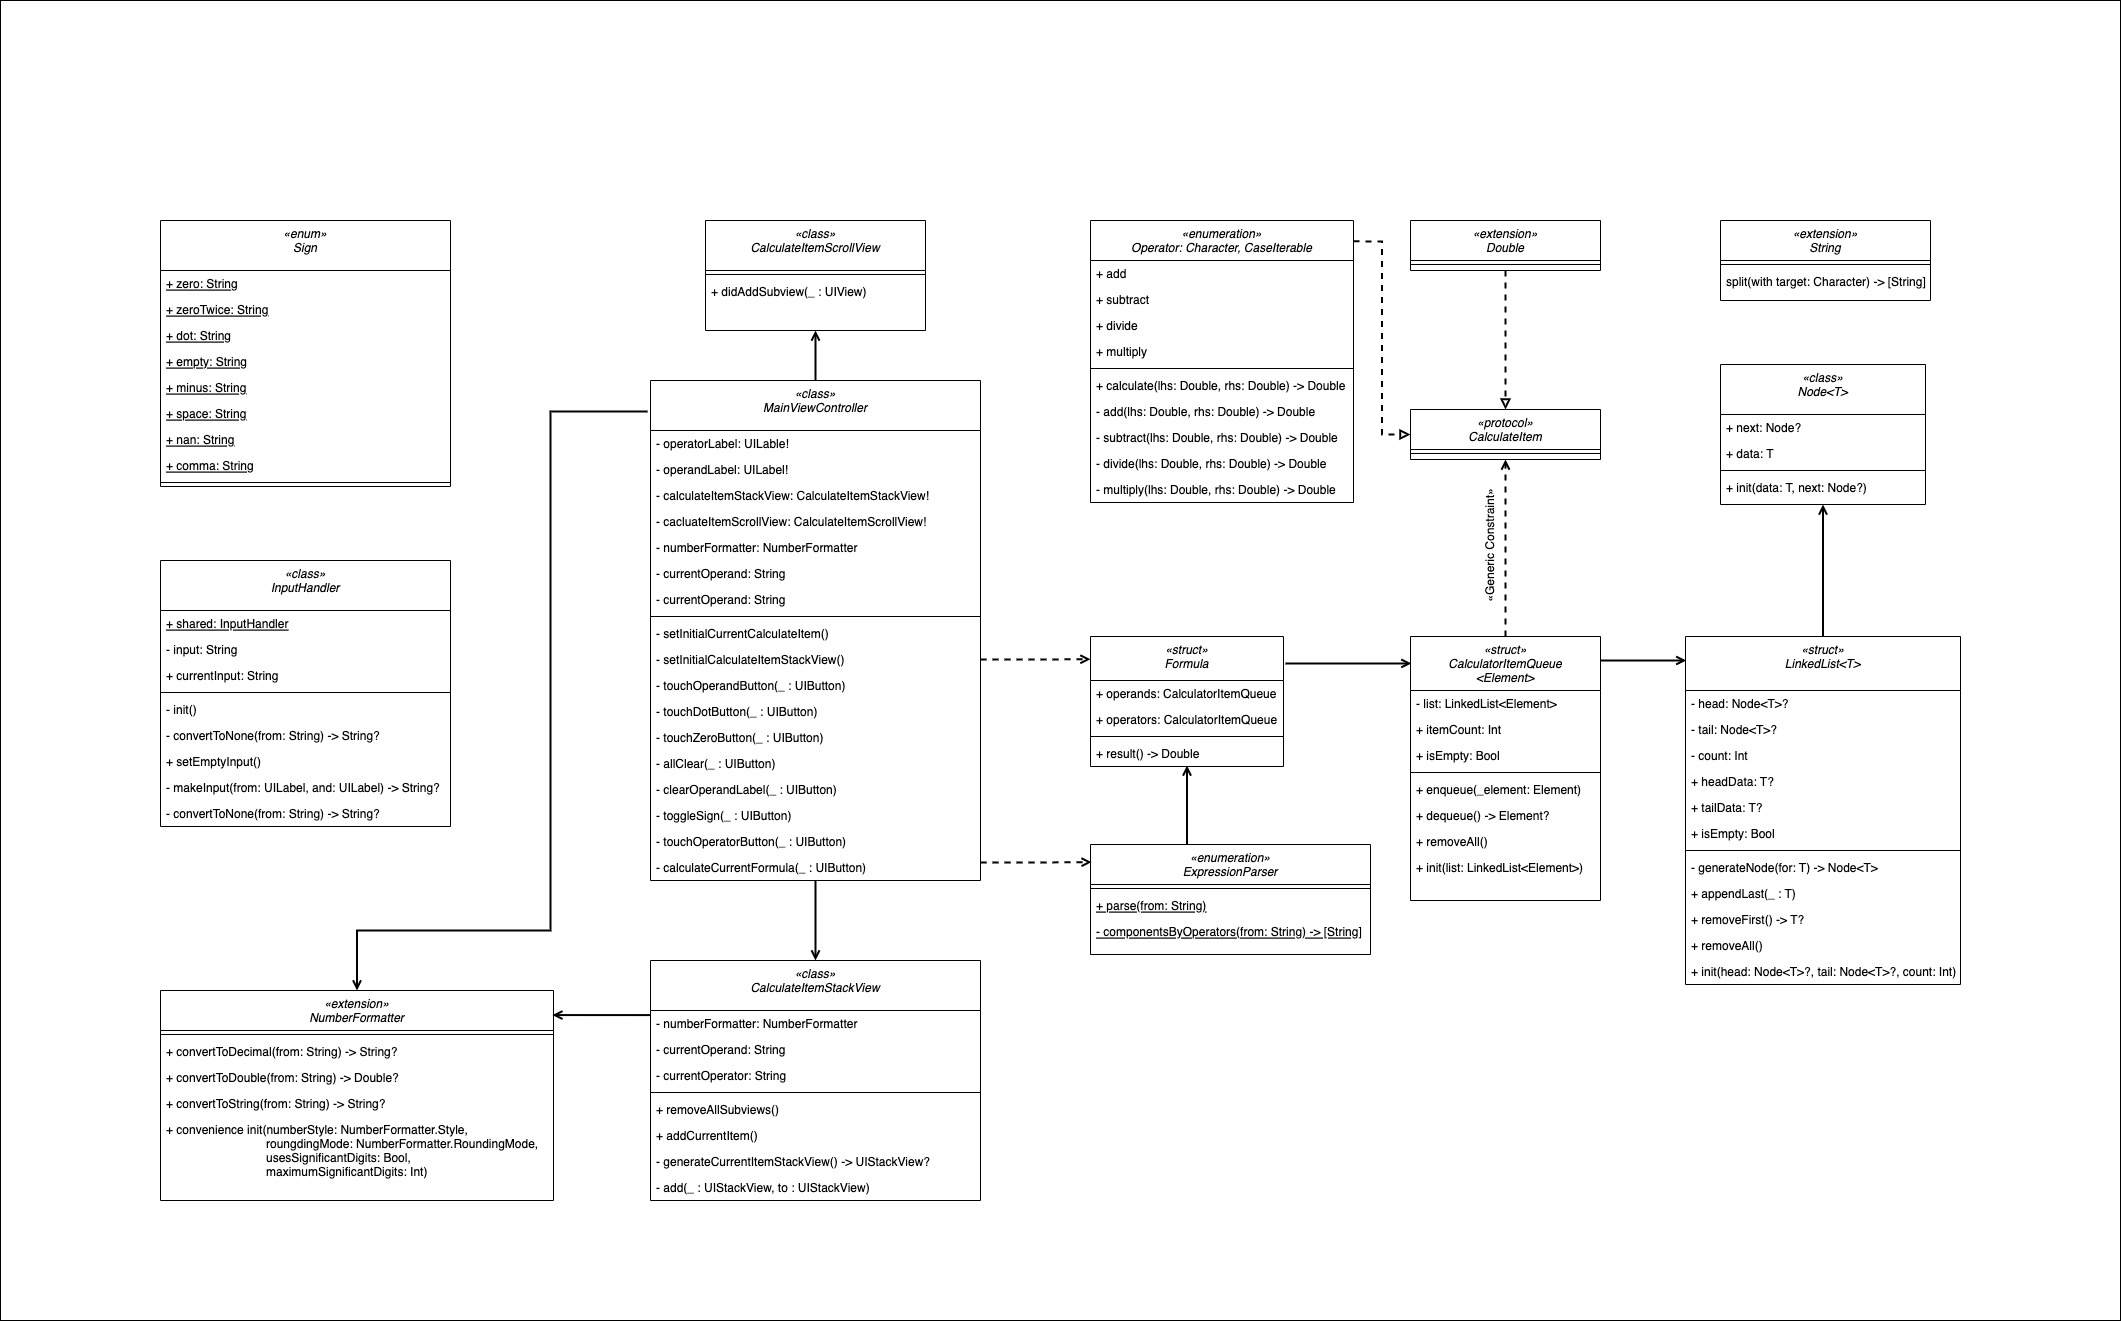
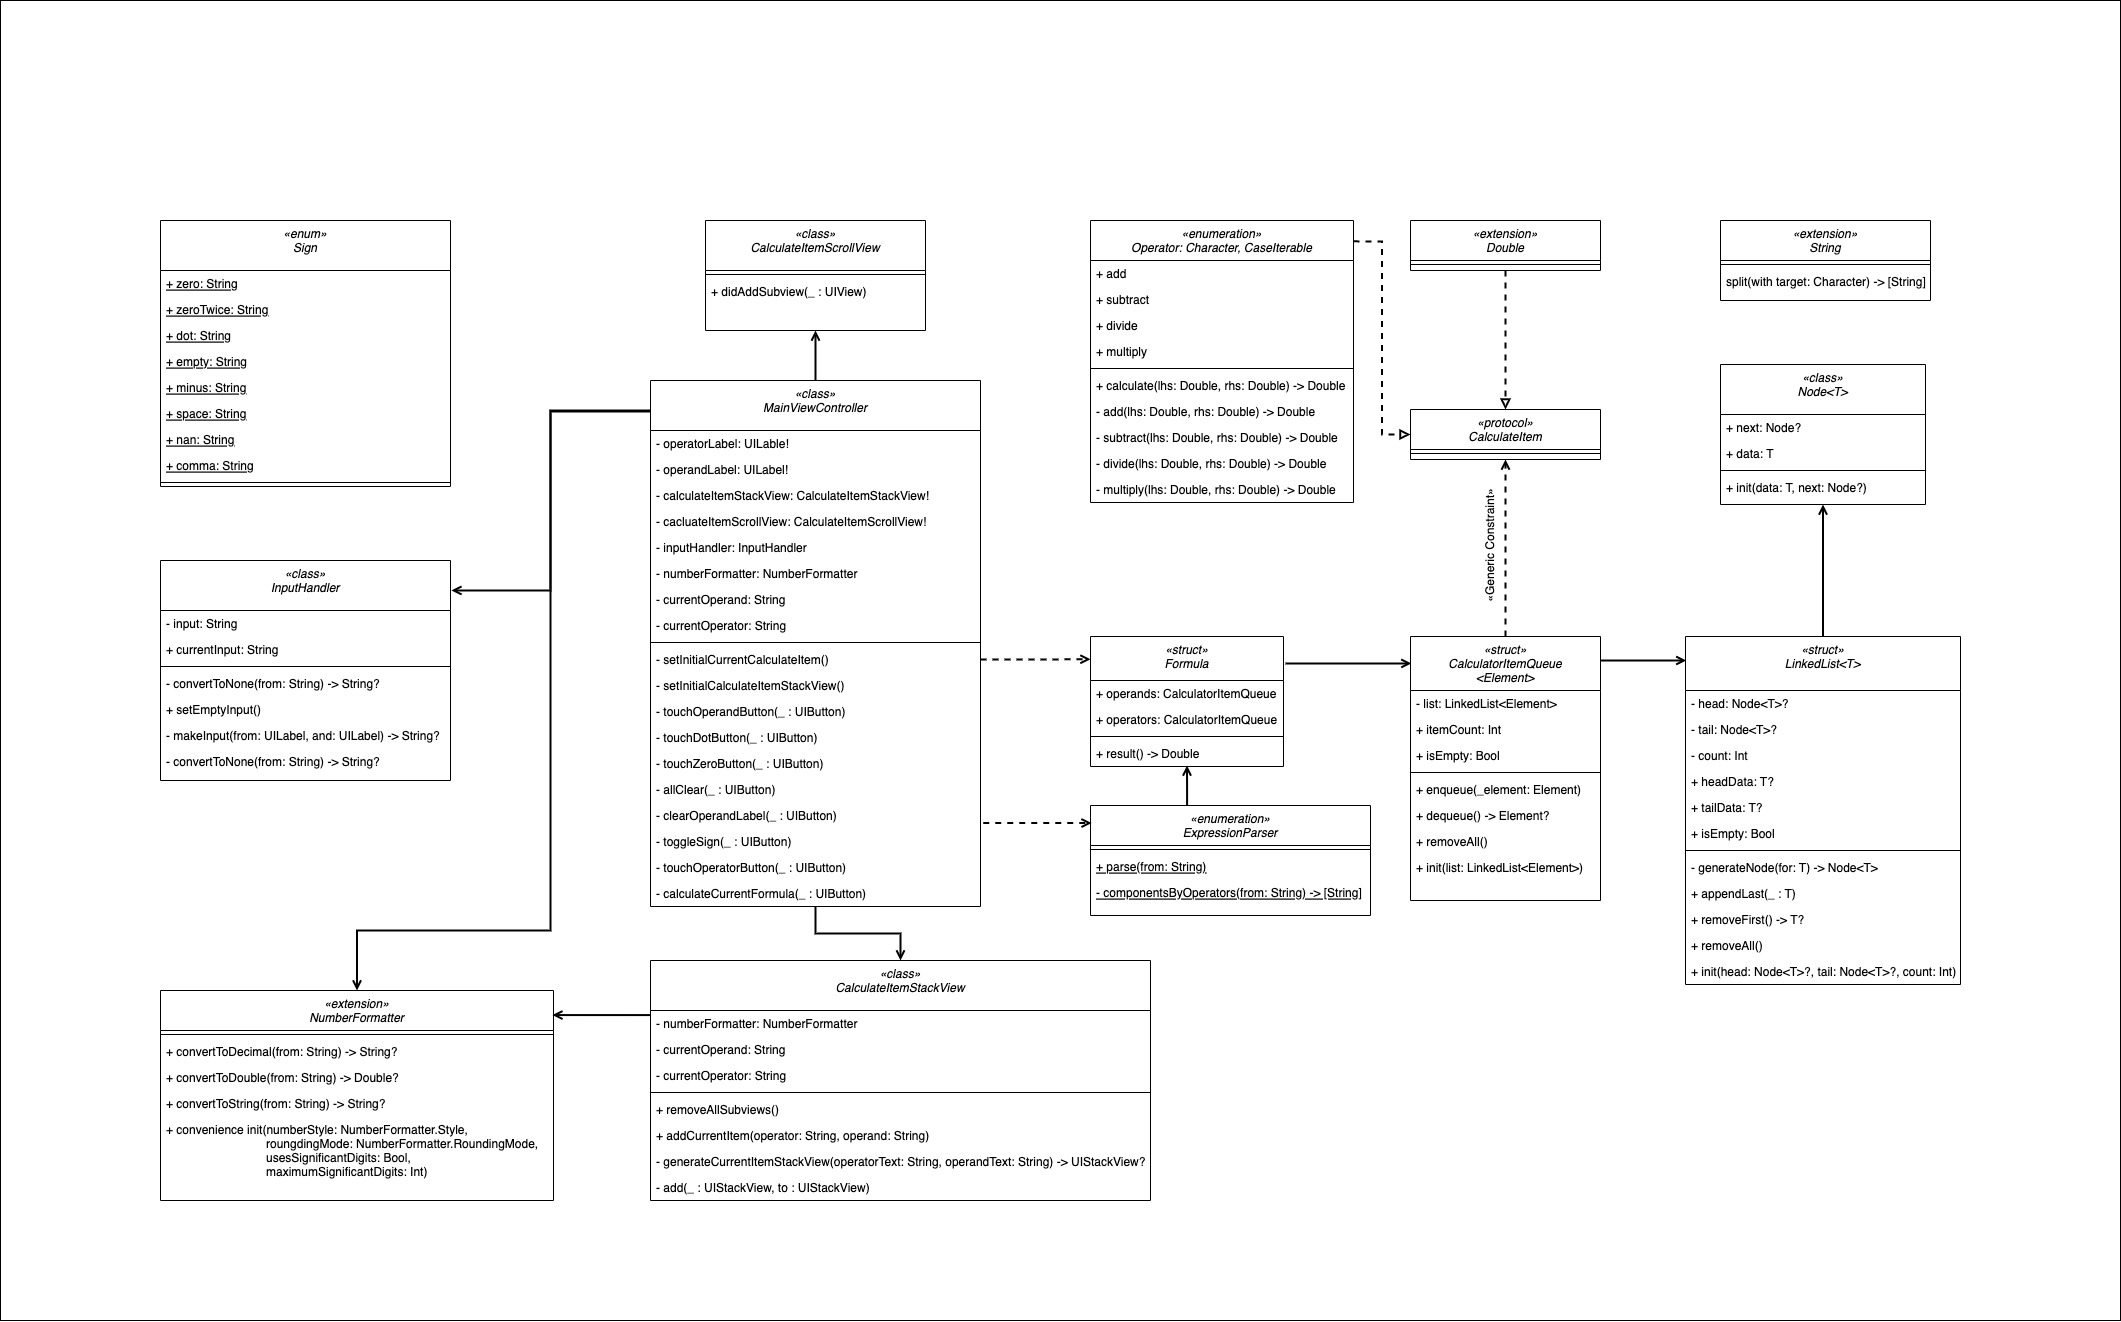
refactor: Convention 수정, UML 수정

diff --git a/Calculator/Calculator/Controller/MainViewController.swift b/Calculator/Calculator/Controller/MainViewController.swift
@@ -59,8 +59,7 @@ final class MainViewController: UIViewController {
     @IBAction private func touchZeroButton(_ sender: UIButton) {
         guard let senderTitle = sender.currentTitle else { return }
         
-        if currentOperand != Sign.zero,
-           currentOperand.contains(Sign.dot) {
+        if currentOperand != Sign.zero, currentOperand.contains(Sign.dot) {
             operandLabel.text = currentOperand + senderTitle
         } else {
             operandLabel.text = numberFormatter.convertToDecimal(from: currentOperand + senderTitle)
